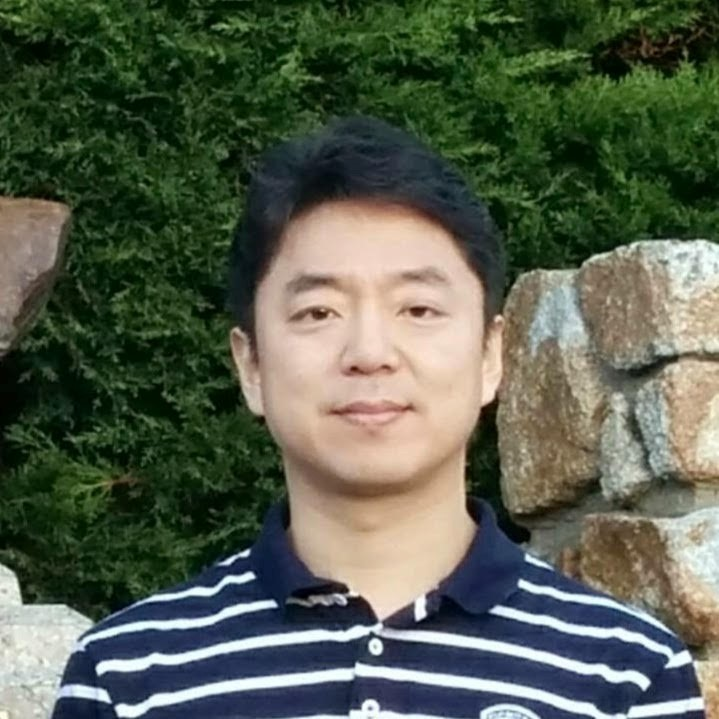
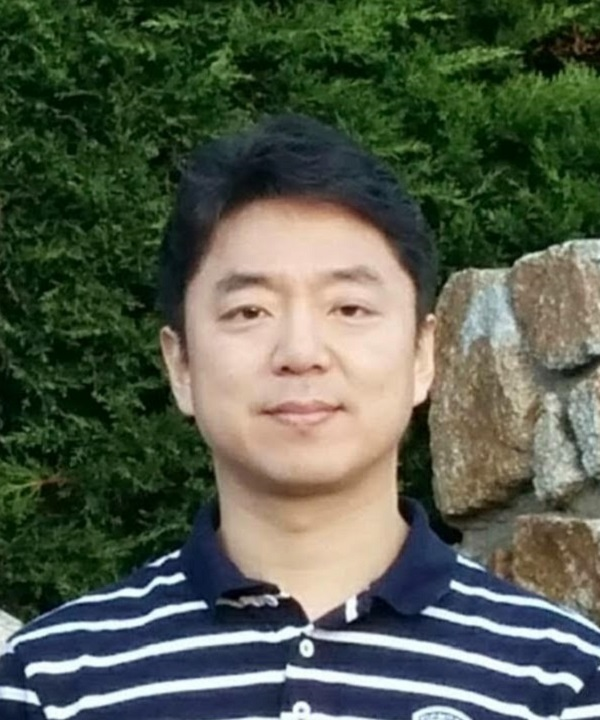
update photo

diff --git a/program.html b/program.html
@@ -288,7 +288,7 @@ program co-chairs no later than 30 days before the conference.-->
 <H1> August 19</H1>
 <BR>
 
-<img style="width: 180px; height: 180px;" src="prof_Youjip_Won.jpg" align="right"/>
+<img style="width: 150px; height: 180px;" src="prof_Youjip_Won.jpg" align="right"/>
 <H2 id=livekeynote2>Live Keynote 2: TBA</H2>
 <UL style="font-size: 15px;">
   <LI><B>Prof. Youjip Won (Korea Advanced Institute of Science and Technology (KAIST))</B></LI>
